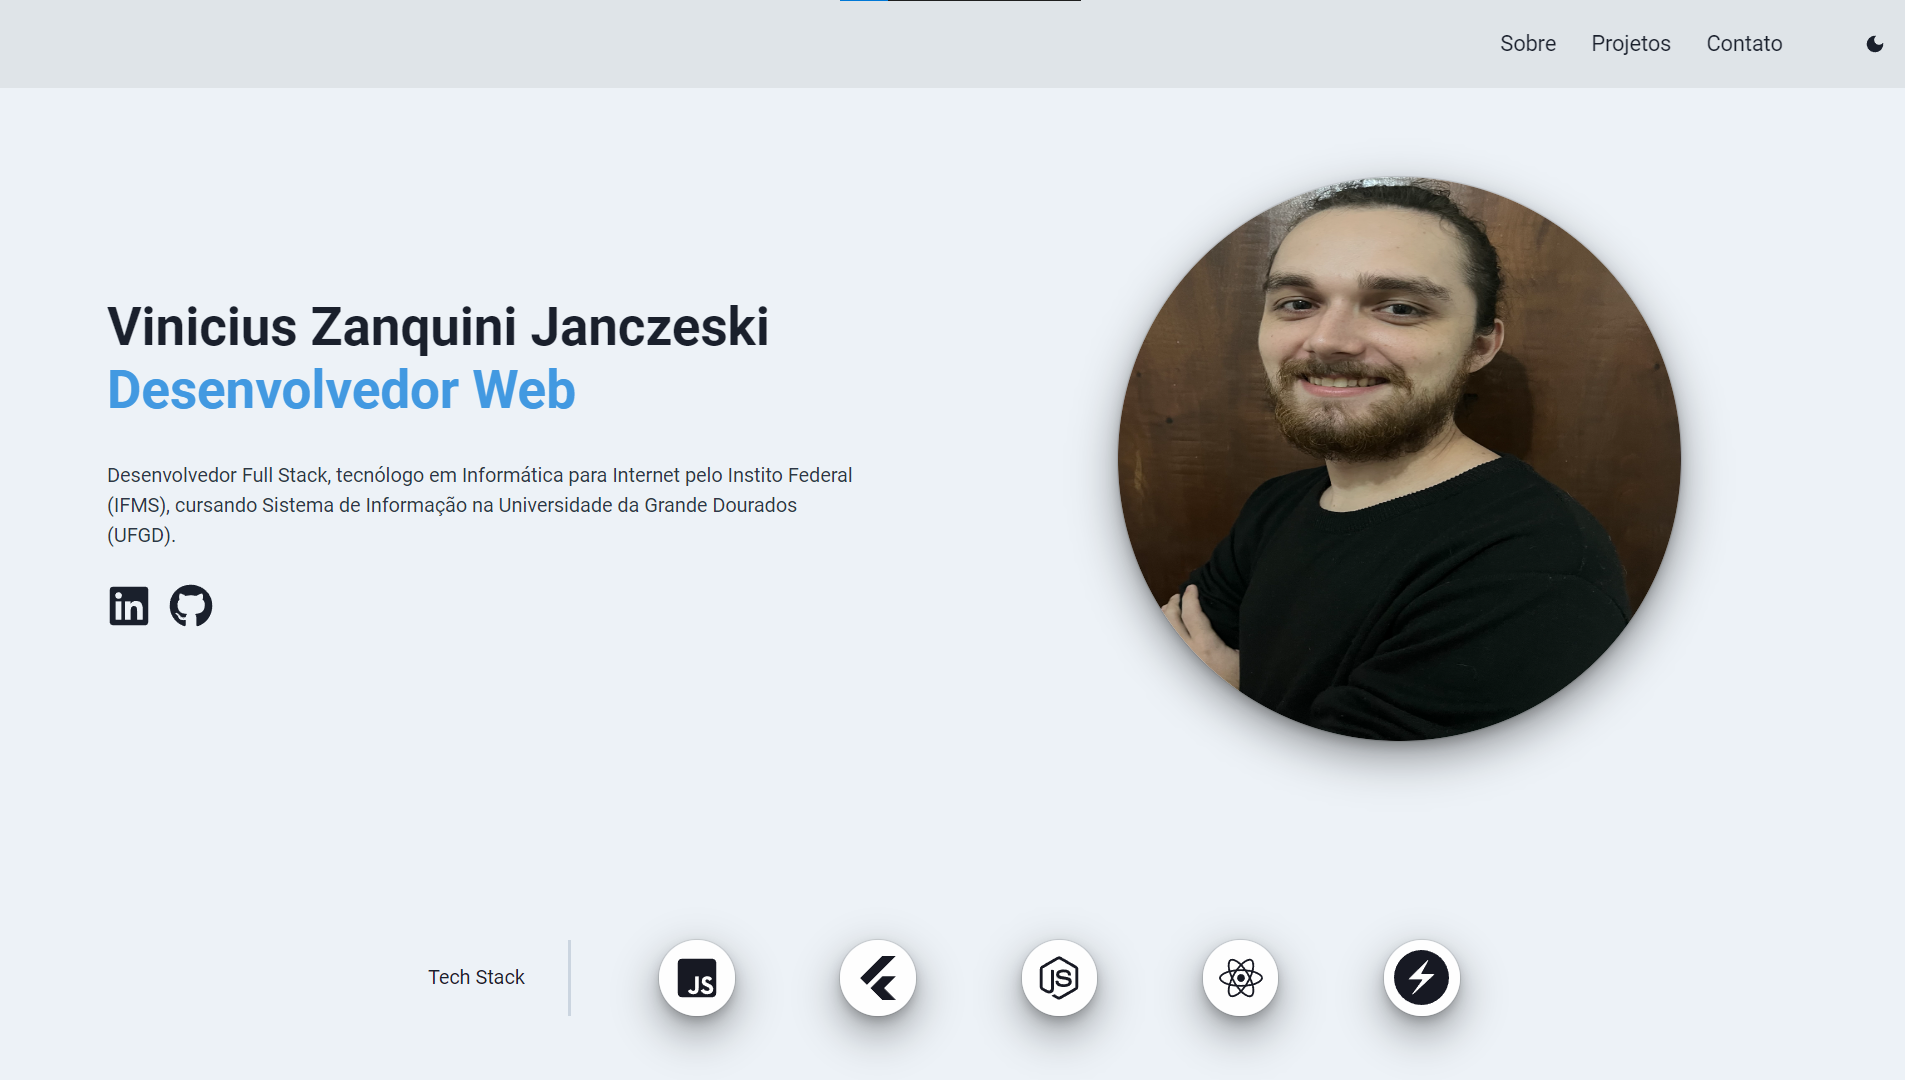
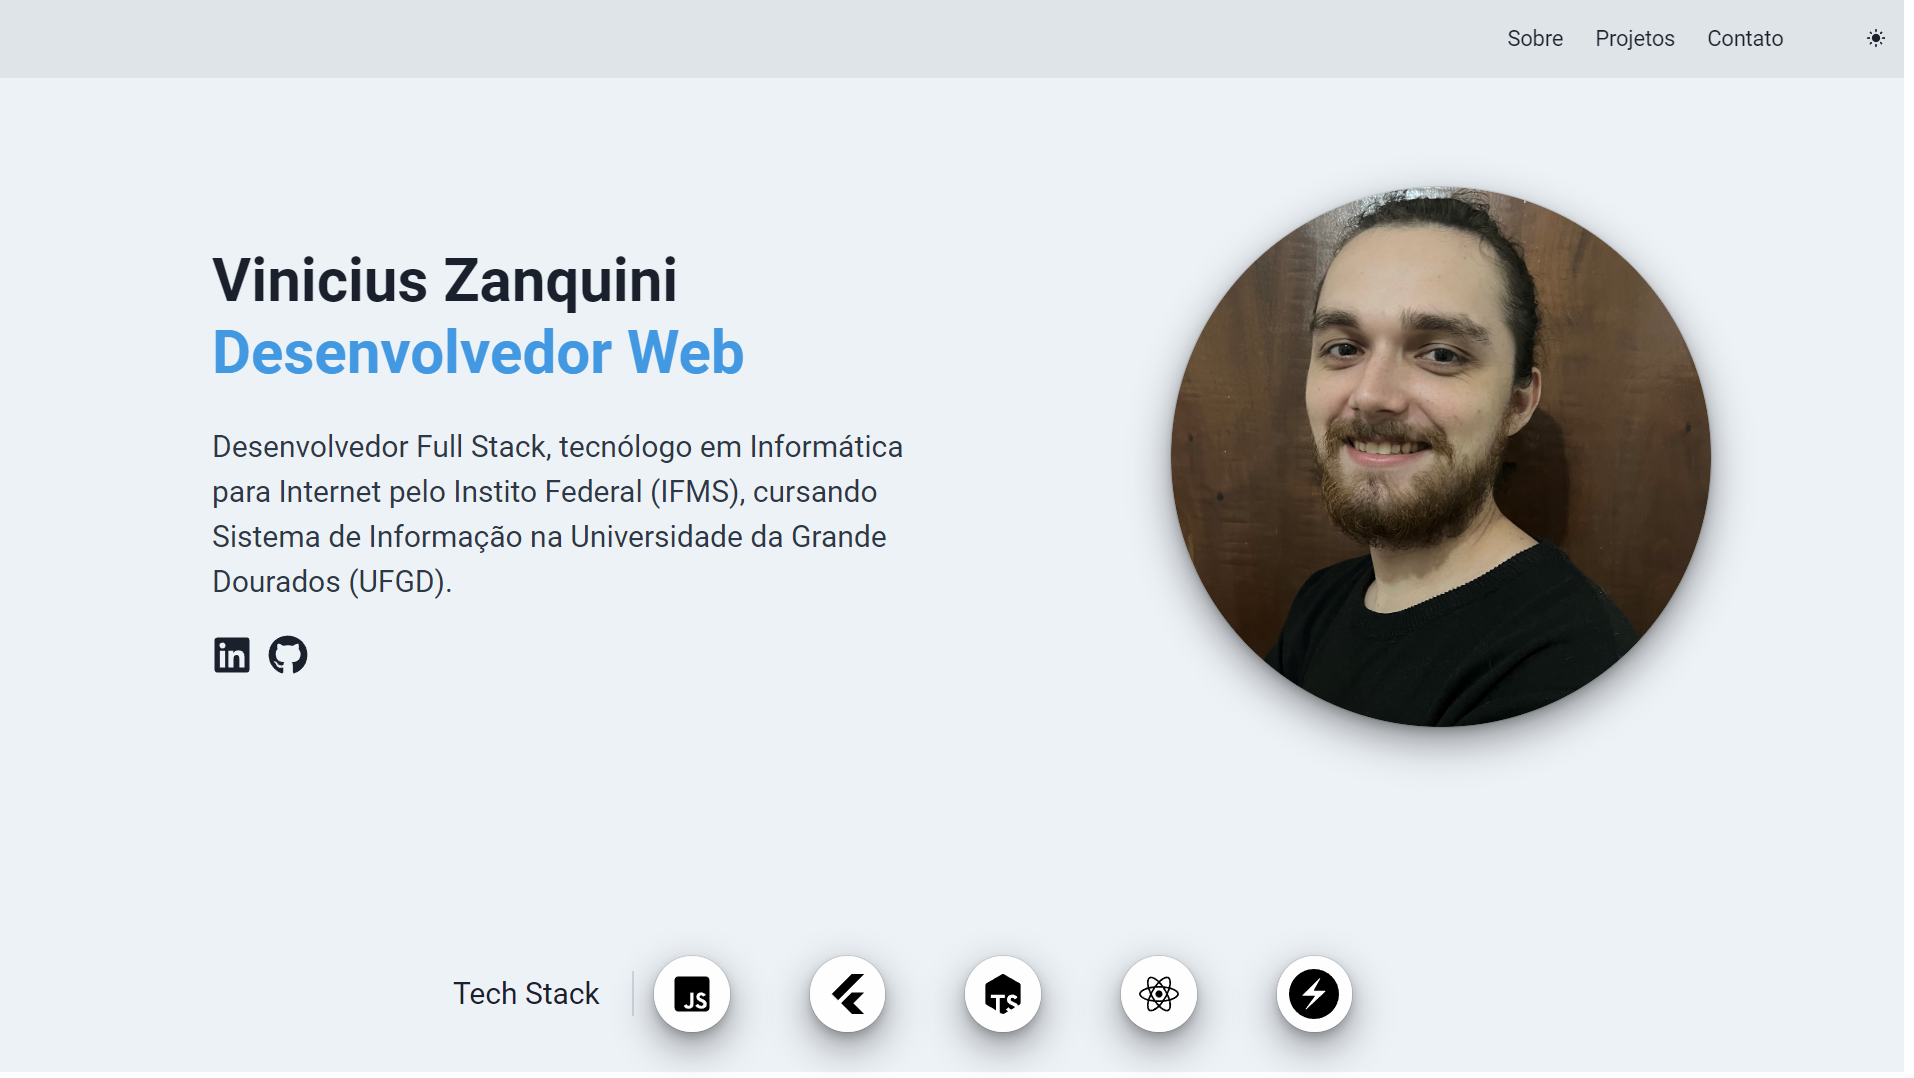
responsiveness changes, images and text

diff --git a/components/Linguages.tsx b/components/Linguages.tsx
@@ -1,101 +1,79 @@
-import { Stack, Flex, Text, useColorModeValue, Container, Box } from "@chakra-ui/react";
-import { FaJsSquare, FaNodeJs, FaReact } from "react-icons/fa";
-import { SiFlutter, SiChakraui } from "react-icons/si";
+import { Stack, Flex, Text, useColorModeValue, Container, Box, useMediaQuery,  } from "@chakra-ui/react";
+import { FaJsSquare, FaReact } from "react-icons/fa";
+import { SiFlutter, SiTsnode , SiChakraui } from "react-icons/si";
+import IconsTech from "./iconstech";
 
 export default function Linguages(){
+  const [isWideScreen] = useMediaQuery("(min-width: 768px)");
   return(
+      
       <Stack minH={'10vh'} direction={{ base: 'column', md: 'column' }} bg={useColorModeValue('gray.100', 'gray.700')}>
-        <Flex p={5} flex={1} alignItems={'center'} justify={'center'} >
+        <Flex
+          p={5}
+          direction={['column', 'row']}
+          alignItems="center"
+          justify="center"
+          flexWrap={['nowrap', 'wrap']}
+        >
+          {/* Conditionally render the Tech Stack text and border */}
+          {isWideScreen ? (
+            <Stack borderRightWidth={'2px'} borderColor={useColorModeValue('gray.300', 'gray.800')}>
+              <Text fontSize={{base: 'md', lg: '3xl'}} marginRight={['1vh', '2vh', '3vh']} color={useColorModeValue('gray.800', 'gray.100')} minW={'10vh'} align={'center'}>
+                Tech Stack
+              </Text>
+            </Stack>
+          ) : (
+            <Flex w="100%" justifyContent="center">
+              <Stack borderBottomWidth={'2px'} borderColor={useColorModeValue('gray.300', 'gray.800')}>
+                <Text fontSize={{base: 'md', lg: '2xl'}} color={useColorModeValue('gray.800', 'gray.100')} align={'center'}>
+                  Tech Stack
+                </Text>
+              </Stack>
+            </Flex>
+          )}
+
+          <Flex flexWrap="wrap" p={5}>
+            <Box marginRight={['4', '8', '12', '16', '20']}>
+              <IconsTech icon={<FaJsSquare color="black" size={'40'}/>}/>
+            </Box>
+            <Box marginRight={['4', '8', '12', '16', '20']}>
+              <IconsTech icon={<SiFlutter color="black" size={'40'}/>}/>
+            </Box>
+            <Box marginRight={['4', '8', '12', '16', '20']}>
+              <IconsTech icon={<SiTsnode color="black" size={'40'}/>}/>
+            </Box>
+            <Box marginRight={['4', '8', '12', '16', '20']}>
+              <IconsTech icon={<FaReact color="black" size={'40'}/>}/>
+            </Box>
+            <Box marginRight={['4', '8', '12', '16', '20']}>
+              <IconsTech icon={<SiChakraui color="black" size={'50'}/>}/>
+            </Box>
+          </Flex>
+        </Flex>
+      </Stack>
+  );
+};
+
+/*<Stack minH={'10vh'} direction={{ base: 'column', md: 'column' }} bg={useColorModeValue('gray.100', 'gray.700')}>
+        <Flex p={5} flex={1} alignItems={'center'} justify={'center'} display={'flex'} flexWrap={'wrap'}>
           <Stack direction={{ base: 'row', md: 'row' }} spacing={[0,2,4,8,12,16]} color={useColorModeValue('gray.900', 'gray.800')} marginBottom={'5vh'}>
+           
             <Stack borderRightWidth={'3px'} borderColor={useColorModeValue('gray.300', 'gray.800')}  justify={'center'}>
               <Text fontSize={['12px','18px']} marginRight={['1vh','2vh','3vh']} color={useColorModeValue('gray.800', 'gray.100')} minW={'10vh'}>
                 Tech Stack     
               </Text>
             </Stack>
 
-            <Container display="flex" >
-              <Box   
-                shadow={'dark-lg'}
-                borderRadius={"full"}
-                padding="2"
-                bgColor={'whiteAlpha.900'}
-                display="flex"
-                justifyContent="center"
-                alignItems="center"
+            <IconsTech icon={<FaJsSquare size={'40'}/>}/>
 
-                width={['4vh', '5vh', '6vh', '7vh']}
-                height={['4vh', '5vh', '6vh', '7vh']}                
-              >
-                <FaJsSquare size={'40'}/>
-              </Box>
-            </Container>
+             <IconsTech icon={<SiFlutter size={'40'}/>}/>
 
-            <Container display="flex">
-              <Box
-                shadow={'dark-lg'}
-                borderRadius={"full"}
-                padding="2"
-                bgColor={'whiteAlpha.900'}
-                display="flex"
-                justifyContent="center"
-                alignItems="center"
-                width={['4vh', '5vh', '6vh', '7vh']}
-                height={['4vh', '5vh', '6vh', '7vh']}    
-              >
-                <SiFlutter size={'40'}/>
-              </Box>
-            </Container>  
+             <IconsTech icon={<SiTsnode size={'40'}/>}/>
 
-            <Container display="flex">
-              <Box   
-                shadow={'dark-lg'}
-                borderRadius={"full"}
-                padding="2"
-                bgColor={'whiteAlpha.900'}
-                display="flex"
-                justifyContent="center"
-                alignItems="center"
-                width={['4vh', '5vh', '6vh', '7vh']}
-                height={['4vh', '5vh', '6vh', '7vh']}   
-              >
-                <FaNodeJs size={'40'}/>
-              </Box>
-            </Container>
+             <IconsTech icon={<FaReact size={'40'}/>}/>
 
-            <Container display="flex">
-              <Box   
-                shadow={'dark-lg'}
-                borderRadius={"full"}
-                padding="2"
-                bgColor={'whiteAlpha.900'}
-                display="flex"
-                justifyContent="center"
-                alignItems="center"
-                width={['4vh', '5vh', '6vh', '7vh']}
-                height={['4vh', '5vh', '6vh', '7vh']}   
-              >
-                <FaReact size={'40'}/>
-              </Box>
-            </Container>
-            <Container display="flex">
-              <Box   
-                shadow={'dark-lg'}
-                borderRadius={"full"}
-                padding="2"
-                bgColor={'whiteAlpha.900'}
-                display="flex"
-                justifyContent="center"
-                alignItems="center"
-                width={['4vh', '5vh', '6vh', '7vh']}
-                height={['4vh', '5vh', '6vh', '7vh']}   
-              >
-                <SiChakraui size={'50'}/>
-              </Box>
-            </Container>
+             <IconsTech icon={<SiChakraui size={'50'}/>}/>
+        
           </Stack>
         </Flex>  
-      </Stack>
-  )
-
-}
-
+      </Stack>*/

diff --git a/components/Contact.tsx b/components/Contact.tsx
@@ -1,4 +1,4 @@
-import { Flex, Stack, Image, Heading, Text, useColorModeValue,} from "@chakra-ui/react";
+import { Flex, Stack, Image, Heading, Text, useColorModeValue, useBreakpointValue, Spacer, Box,} from "@chakra-ui/react";
 import { AiOutlineLinkedin, AiOutlineWhatsApp } from "react-icons/ai";
 
 import {MdOutlineEmail } from "react-icons/md";
@@ -17,36 +17,73 @@ export default function Contact(){
         isClosable: true,
         })
     }
-
     return(
-        <Stack minH={'100vh'} direction={{ base: 'column', md: 'row' }} id="Contato" bg={useColorModeValue('gray.100', 'gray.700')}> 
-            <Flex p={5} flex={1} align={'center'} justify={'center'}>
-                <Stack spacing={9} w={'full'} maxW={'70vh'}>
-                    <Heading fontSize={{ base: '3xl', md: '4xl', lg: '5xl' }}>
-                        <Text as={'span'}>
-                            Contate-me
+        
+        
+        <Flex minH={'95vh'} justifyContent="center" bg={useColorModeValue('gray.100', 'gray.700')} id="Contato" direction={{ base: 'column', md: 'row' }} paddingTop={'20vh'}>
+                <Flex>
+                    <Stack maxW={'60vh'} >
+                        <Heading fontSize={{ base: '3xl', md: '4xl', lg: '5xl' }}>
+                            <Text as={'span'}>
+                                Contate-me
+                            </Text>
+                        </Heading>
+                        <Text fontSize={{ base: 'md', lg: 'lg' }} color={useColorModeValue('gray.900', 'gray.100')} >
+                            Se gostou do meu trabalho e deseja se comunicar comigo, fique à vontade para me mandar uma mensagem!
                         </Text>
-                    </Heading>
-                    <Text fontSize={{ base: 'md', lg: 'lg' }} color={useColorModeValue('gray.900', 'gray.100')} >
-                        Se gostou do meu trabalho e deseja se comunicar comigo, fique à vontade para me mandar uma mensagem!
-                    </Text>
-                    <ContactButton text='Whatsapp' icon={<AiOutlineWhatsApp size={40}/>} onClick={() => window.open('https://api.whatsapp.com/send?phone=5567998812814')}/>
-                    <ContactButton text='Linkedin' icon={<AiOutlineLinkedin size={40}/>} onClick={() => window.open('https://www.linkedin.com/in/vinicius-zanquini-janczeski-3171b5141')}/>
-                    <ContactButton text='E-Mail' icon={<MdOutlineEmail size={40}/>} onClick={() => copyShow()}/>
-                </Stack>
-            </Flex>          
-            <Flex flex={1} align={'center'} justify={'center'}>
-                <Stack spacing={5} w={'full'}>
-                    <Image
+                        <ContactButton text='Whatsapp' icon={<AiOutlineWhatsApp size={40}/>} onClick={() => window.open('https://api.whatsapp.com/send?phone=5567998812814')}/>
+                        <ContactButton text='Linkedin' icon={<AiOutlineLinkedin size={40}/>} onClick={() => window.open('https://www.linkedin.com/in/vinicius-zanquini-janczeski-3171b5141')}/>
+                        <ContactButton text='E-Mail' icon={<MdOutlineEmail size={40}/>} onClick={() => copyShow()}/>
+                    </Stack>
+                </Flex>
+                
+                <Flex>
+                    <Stack spacing={5} w={'full'} marginBottom={'20vh'} marginLeft={[0, 10, 20, 30, 40]}>
+                        <Image
                         borderRadius={'50%'}
                         shadow={'dark-lg'}
-                        boxSize={'40vh'}
-                        src="/images/contactphoto.jpg"
+                        maxH={['30vh', '40vh']}
+                        maxW={['30vh', '40vh']}
+                        src="/images/contactphoto2.jpg"
                         alt="Perfil"
+                        />
+                    </Stack>
+                </Flex>
+        </Flex>
+           
+    
+
+        // <Stack minH={'100vh'} direction={{ base: 'column', md: 'row' }} id="Contato" bg={useColorModeValue('gray.100', 'gray.700')}>  
+        //     <Flex p={5} flex={1} align={'center'} justify={'center'}>
+        //         <Stack maxW={'70vh'}>
+        //             <Heading fontSize={{ base: '3xl', md: '4xl', lg: '5xl' }}>
+        //                 <Text as={'span'}>
+        //                     Contate-me
+        //                 </Text>
+        //             </Heading>
+        //             <Text fontSize={{ base: 'md', lg: 'lg' }} color={useColorModeValue('gray.900', 'gray.100')} >
+        //                 Se gostou do meu trabalho e deseja se comunicar comigo, fique à vontade para me mandar uma mensagem!
+        //             </Text>
+        //             <ContactButton text='Whatsapp' icon={<AiOutlineWhatsApp size={40}/>} onClick={() => window.open('https://api.whatsapp.com/send?phone=5567998812814')}/>
+        //             <ContactButton text='Linkedin' icon={<AiOutlineLinkedin size={40}/>} onClick={() => window.open('https://www.linkedin.com/in/vinicius-zanquini-janczeski-3171b5141')}/>
+        //             <ContactButton text='E-Mail' icon={<MdOutlineEmail size={40}/>} onClick={() => copyShow()}/>
+        //         </Stack>
+        //     </Flex> 
+
+        //     <Flex flex={1} align={'center'} justifyItems={'right'}>
+        //         <Stack spacing={5} w={'full'}>
+        //             <Image
+        //                 borderRadius={'50%'}
+        //                 shadow={'dark-lg'}
+        //                 boxSize={'40vh'}
+        //                 src="/images/contactphoto2.jpg"
+        //                 alt="Perfil"
                         
-                    />
-                </Stack>
-            </Flex>
-        </Stack>
+        //             />
+        //         </Stack>
+        //     </Flex>
+        // </Stack>
     )
 }
+
+

diff --git a/components/About.tsx b/components/About.tsx
@@ -4,19 +4,19 @@ import { FaLinkedin, FaGithub } from "react-icons/fa"
 export default function About(){
 
     return(
-        <Stack minH={'85vh'} direction={{ base: 'column', md: 'row' }} id='Sobre' bg={useColorModeValue('gray.100', 'gray.700')}>
+        <Stack minH={'85vh'} direction={{ base: 'column-reverse', md: 'row' }} id='Sobre' bg={useColorModeValue('gray.100', 'gray.700')}>
             <Flex p={5} flex={1} align={'center'} justify={'center'}>
-                <Stack spacing={9} w={'full'} maxW={'70vh'}>
-                    <Heading fontSize={{ base: '3xl', md: '4xl', lg: '5xl' }}>
+                <Stack spacing={9} w={'full'} maxW={'70vh'} marginLeft={'10vw'}>
+                    <Heading fontSize={{ base: '3xl', md: '4xl', lg: '6xl' }}>
                         <Text as={'span'} position={'relative'}>
-                            Vinicius Zanquini Janczeski
+                            Vinicius Zanquini
                         </Text>
                         <br />
                         <Text color={'blue.400'} as={'span'}>
                             Desenvolvedor Web
                         </Text>
                     </Heading>
-                    <Text fontSize={{ base: 'md', lg: 'lg' }} color={useColorModeValue('gray.700', 'gray.100')}>
+                    <Text fontSize={{ base: 'md', lg: '3xl' }} color={useColorModeValue('gray.700', 'gray.100')}>
                         Desenvolvedor Full Stack, tecnólogo em Informática para Internet pelo Instito Federal (IFMS), 
                         cursando Sistema de Informação na Universidade da Grande Dourados (UFGD).
                     </Text>
@@ -42,14 +42,15 @@ export default function About(){
                     </Stack>
                 </Stack>
             </Flex>          
-            <Flex flex={1} align={'center'} justify={'center'}>
+            <Flex flex={1} align={'center'} justify={'center'} >
                 <Stack spacing={5} w={'full'} maxW={'60vh'}>
                     <Image
-                        maxH={{base: 'md', lg: 'lg'}}
-                        maxW={{base: 'md', lg: 'lg'}}
+                        alignSelf={'center'}
+                        maxH={['30vh', '40vh', '50vh']}
+                        maxW={['30vh', '40vh', '50vh']}
                         shadow={'dark-lg'}
                         borderRadius={'50%'}
-                        src="/images/perfilphoto.jpg"
+                        src="/images/perfilphoto2.jpg"
                         alt="Perfil"
                     />
                 </Stack>

diff --git a/components/Projects.tsx b/components/Projects.tsx
@@ -5,17 +5,15 @@ import { SiChakraui, SiFlutter } from "react-icons/si";
 
 export default function Projects(){    
     return(
-        
-        
-        <Stack minH={'50vh'} direction={{ base: 'column', md: 'column' }} marginBottom={'40vh'} id='Projetos'>
+        <Stack minH={'60vh'} direction={{ base: 'column', md: 'column' }} marginBottom={'40vh'} id='Projetos'>
             <Flex p={5} flex={1} justify={'center'}>
                 <Stack spacing={2} w={'full'} maxW={'90vh'}>
-                        <Text fontSize={{ base: 'md', lg: '3xl'}} color={'blue.400'} as='b'>
-                            Meus projetos
-                        </Text>
-                        <Text fontSize={{ base: 'md', lg: '2xl' }} color={useColorModeValue('gray.700', 'gray.100')} >
-                            Cada projeto é uma peça unica de desenvolvimento.
-                        </Text>
+                    <Text fontSize={{ base: 'md', lg: '3xl'}} color={'blue.400'} as='b'>
+                        Meus projetos
+                    </Text>
+                    <Text fontSize={{ base: 'md', lg: '2xl' }} color={useColorModeValue('gray.700', 'gray.100')} >
+                        Cada projeto é uma peça unica de desenvolvimento.
+                    </Text>
                 </Stack>
             </Flex>
 

diff --git a/components/IconsTech.tsx b/components/IconsTech.tsx
@@ -1,0 +1,23 @@
+import {Box, useColorModeValue } from '@chakra-ui/react';
+import React from 'react';
+
+export default function IconsTech({icon}){
+
+    return(
+        <Box
+        
+        shadow={'dark-lg'}
+        borderRadius={"full"}
+        padding="2"
+        
+        display="flex"
+        justifyContent="center"
+        alignItems="center"
+        width={['4vh', '5vh', '6vh', '7vh']}
+        height={['4vh', '5vh', '6vh', '7vh']}
+        >
+        {icon}
+        </Box>
+    );
+
+}

diff --git a/components/ContactButton.tsx b/components/ContactButton.tsx
@@ -20,6 +20,7 @@ export default function ContactButton({text, icon, onClick}: IContactButtonProps
                 _hover={{
                 textDecoration: 'none',
                 bg: 'transparent',
+                
             }}>
                 {text}
             </Button>                        

diff --git a/styles/globals.css b/styles/globals.css
@@ -36,3 +36,7 @@ button {
   padding: 0.5rem 1rem;
   font-weight: bold;
 }
+
+.ContactStyle{
+  background-color: red;
+}
